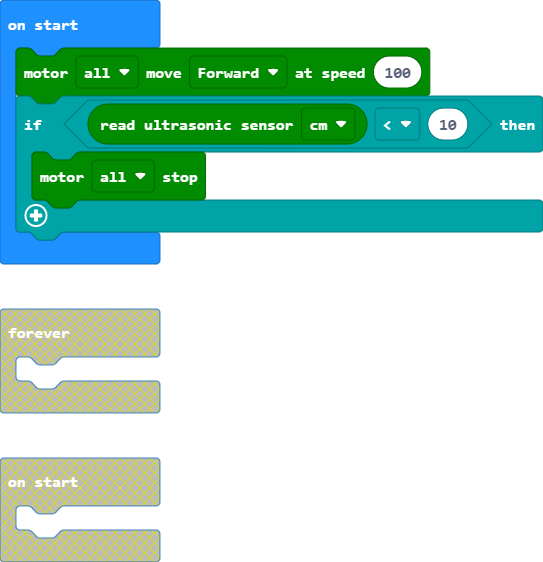
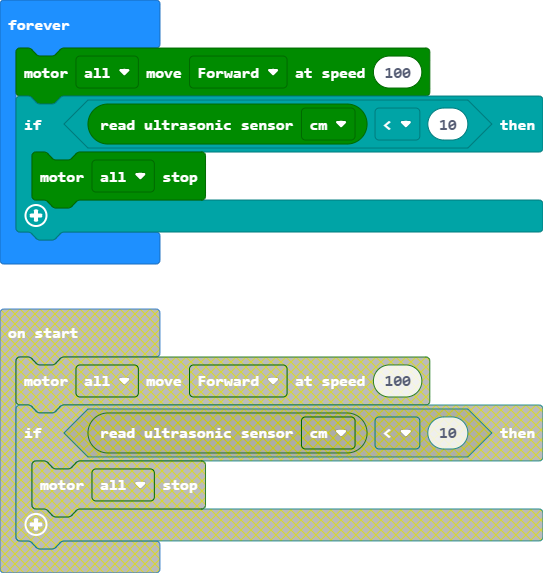
change to forever block

diff --git a/main.ts b/main.ts
@@ -1,4 +1,6 @@
-maqueen.motorRun(maqueen.Motors.All, maqueen.Dir.CW, 100)
-if (maqueen.Ultrasonic(PingUnit.Centimeters) < 10) {
-    maqueen.motorStop(maqueen.Motors.All)
-}
+basic.forever(function () {
+    maqueen.motorRun(maqueen.Motors.All, maqueen.Dir.CW, 100)
+    if (maqueen.Ultrasonic(PingUnit.Centimeters) < 10) {
+        maqueen.motorStop(maqueen.Motors.All)
+    }
+})

diff --git a/rijden.md b/rijden.md
@@ -11,10 +11,12 @@ In de werkruimte zie je weer de twee containerblokken
 Klik nu in de **blokkenlade** op de categorie ``||maqueen:Maqueen||``. 
 *In deze categorie staan de blokken die speciaal voor de Maqueen robot zijn.*
 Sleep hieruit het blok ``||maqueen: motor ... move ... at speed ...||`` en 
-plaats die in het ``||basic:on start||`` blok.
+plaats die in het ``||basic:forever||`` blok.
 
 ```blocks
-maqueen.motorRun(maqueen.Motors.Left, maqueen.Dir.CW, 0)
+basic.forever(function () {
+    maqueen.motorRun(maqueen.Motors.Left, maqueen.Dir.CW, 0)
+})
 ```
 
 ## Stap 2
@@ -25,7 +27,9 @@ Vul deze gegevens in op het ``||maqueen: motor ... move ... at speed ...||`` blo
 Zet de Maqueen aan en hij gaat rijden!
 
 ```blocks
-maqueen.motorRun(maqueen.Motors.All, maqueen.Dir.CW, 100)
+basic.forever(function () {
+    maqueen.motorRun(maqueen.Motors.All, maqueen.Dir.CW, 100)
+})
 ```
 
 ## Stap 3 
@@ -42,10 +46,12 @@ Sleep uit de **blokkenlade** van de categorie ``||logic:Logic||`` het ruitvormig
 Deze klik je op de true van het ``||logic: if ... then||`` blok. Hier kan je in de volgende stap de juiste waardes invullen om de Maqueen te laten doen wat jij wilt.  
 
 ```blocks
-maqueen.motorRun(maqueen.Motors.All, maqueen.Dir.CW, 100)
-if (0 == 0) {
-	
-}
+basic.forever(function () {
+    maqueen.motorRun(maqueen.Motors.All, maqueen.Dir.CW, 100)
+    if (0 == 0) {
+        
+    }
+})
 ```
 
 ## Stap 4
@@ -65,10 +71,12 @@ Als (If) de ulstrasonic sensor een afstand meet kleiner dan (<) 10 cm, dan (then
 
 
 ```blocks
-maqueen.motorRun(maqueen.Motors.All, maqueen.Dir.CW, 100)
-if (maqueen.Ultrasonic(PingUnit.Centimeters) < 10) {
-    maqueen.motorStop(maqueen.Motors.All)
-}
+basic.forever(function () {
+    maqueen.motorRun(maqueen.Motors.All, maqueen.Dir.CW, 100)
+    if (maqueen.Ultrasonic(PingUnit.Centimeters) < 10) {
+        maqueen.motorStop(maqueen.Motors.All)
+    }
+})
 ```
 
 
